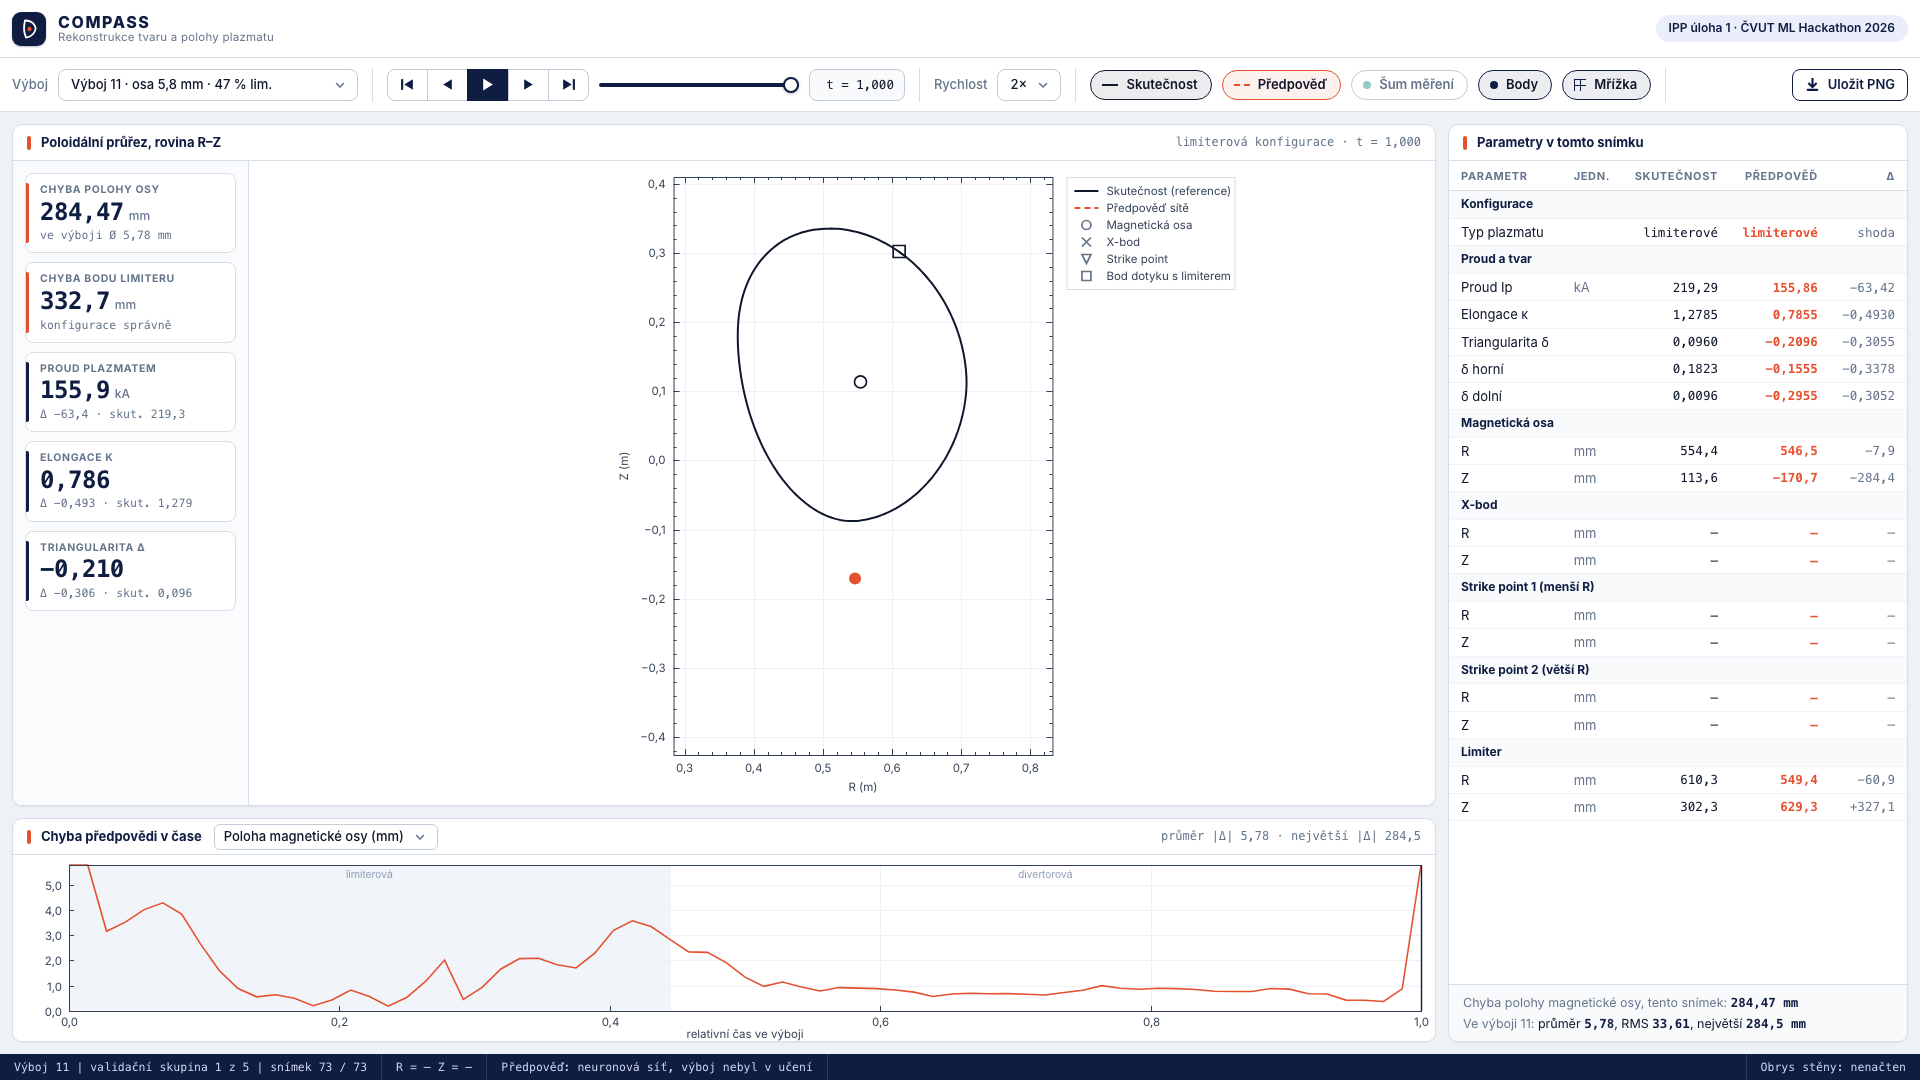
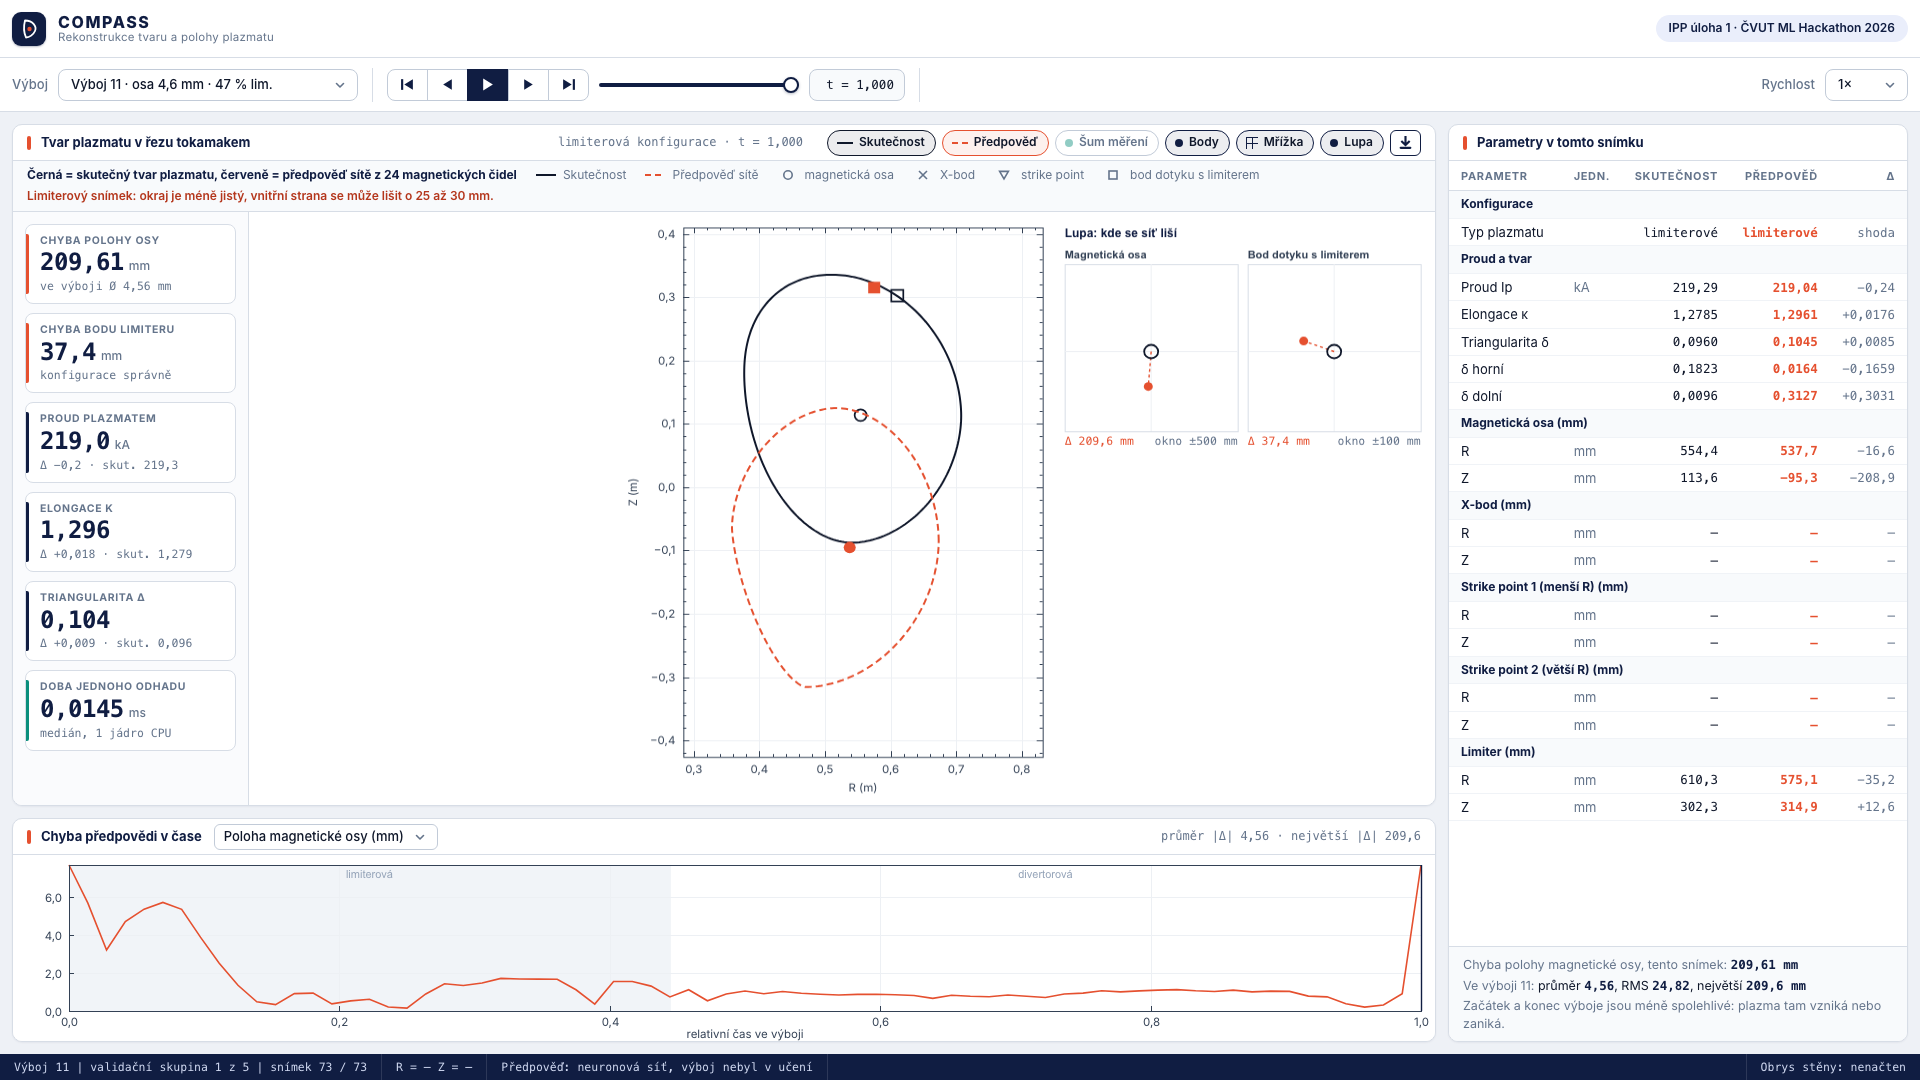
feat: add Firefox slider rules and a limited-frame note, re-record the final stills

diff --git a/viewer/index.html b/viewer/index.html
@@ -43,6 +43,9 @@ button svg { width: 15px; height: 15px; fill: var(--ink); }
 input[type=range] { --p: 0%; -webkit-appearance: none; appearance: none; width: 200px; height: 22px; background: transparent; margin: 0; cursor: pointer; }
 input[type=range]::-webkit-slider-runnable-track { height: 4px; border-radius: 2px; background: linear-gradient(to right, var(--ink) var(--p), #d5dce7 var(--p)); }
 input[type=range]::-webkit-slider-thumb { -webkit-appearance: none; width: 16px; height: 16px; margin-top: -6px; border-radius: 50%; background: #fff; border: 2px solid var(--ink); box-shadow: 0 1px 3px rgba(16, 29, 66, 0.3); }
+input[type=range]::-moz-range-track { height: 4px; border-radius: 2px; background: #d5dce7; }
+input[type=range]::-moz-range-progress { height: 4px; border-radius: 2px; background: var(--ink); }
+input[type=range]::-moz-range-thumb { width: 12px; height: 12px; border-radius: 50%; background: #fff; border: 2px solid var(--ink); box-shadow: 0 1px 3px rgba(16, 29, 66, 0.3); }
 input[type=range]:focus-visible { outline: 2px solid var(--ring); outline-offset: 3px; border-radius: 4px; }
 .chip { position: relative; display: inline-flex; align-items: center; gap: 8px; height: 30px; padding: 0 13px 0 11px; border: 1px solid var(--border2); border-radius: 999px; background: #fff; color: var(--muted); cursor: pointer; font-weight: 550; transition: all 0.12s; }
 .chip input { position: absolute; opacity: 0; pointer-events: none; }
@@ -64,6 +67,7 @@ main { display: grid; grid-template-columns: minmax(0, 1fr) 460px; gap: 12px; pa
 .ph { min-width: 0; overflow: hidden; }
 .stagepanel { grid-template-rows: 36px auto minmax(0, 1fr); }
 .legendbar { display: flex; flex-wrap: wrap; align-items: center; gap: 4px 18px; padding: 6px 14px; border-bottom: 1px solid var(--border); background: var(--head); font-size: 12px; color: var(--muted); }
+.legendbar .warn { color: #b4361c; font-weight: 600; }
 .legendbar b { color: var(--ink); font-weight: 650; } .legendbar .it { display: inline-flex; align-items: center; gap: 6px; } .legendbar svg { width: 22px; height: 12px; overflow: visible; }
 .ph .chips { display: flex; gap: 6px; align-items: center; margin-left: 12px; }
 .ph .chip { height: 26px; padding: 0 10px 0 9px; font-size: 12px; gap: 6px; }
@@ -284,7 +288,8 @@ function drawLegendBar() {
     : `<svg viewBox="0 0 22 12"><g transform="translate(11 6)" stroke="#64748b" stroke-width="1.6" fill="none">${{ circle: '<circle r="4.2"/>', x: '<path d="M-4-4L4 4M4-4L-4 4"/>', tri: '<path d="M-4.4-3.6H4.4L0 4Z"/>', square: '<rect x="-4" y="-4" width="8" height="8"/>' }[k]}</g></svg>`;
   const items = [["line", "Skutečnost", COL.true], ...sets().map(([, col, label]) => ["dash", label, col]), ["circle", "magnetická osa"], ["x", "X-bod"], ["tri", "strike point"], ["square", "bod dotyku s limiterem"]];
   $("#legendbar").innerHTML = `<span><b>${state.noise ? "Černá = skutečný tvar, barevně = dvě sítě na zašuměných měřeních" : "Černá = skutečný tvar plazmatu, červeně = předpověď sítě z 24 magnetických čidel"}</b></span>` +
-    items.map(([k, label, col]) => `<span class="it">${glyph(k, col)}${label}</span>`).join("");
+    items.map(([k, label, col]) => `<span class="it">${glyph(k, col)}${label}</span>`).join("") +
+    (isLimited(cur().c, state.i, "") ? `<span class="it warn">Limiterový snímek: okraj je méně jistý, vnitřní strana se může lišit o 25 až 30 mm.</span>` : "");
 }
 // Magnifier tiles: the true point in the centre, the predicted points around it, the window sized to the error.
 function drawLenses(ctx) {

diff --git a/docs/PLAN.md b/docs/PLAN.md
@@ -26,7 +26,7 @@ criteria are met **and verified** (`AGENTS.md` §15).
 | IMPL-7 | Camera model. Camera lane is the cloud session; GPT lane R only ran a local cross check | IN PROGRESS | REQ-B01, REQ-B03, REQ-B05 | Local run, 2 of 5 folds, `analysis/ipp1_camera_model.py --epochs 8 --folds 5 --run-folds 2`: camera R axis 1.54 mm (colour) and 1.53 mm (black and white) against 0.24 mm for magnetics on the same frames; fusion 1.21 mm, no gain over magnetics; plain model fragile to a 4 to 8 px shift (about 3x error), augmentation fixes it (2.0 mm); shift curve non monotonic, padding suspected. Notebook outputs still open |
 | IMPL-8 | Notebooks that run top to bottom, README and results table | IN PROGRESS | REQ-005 | `notebooks/01` to `05` written; clean run on a second machine not yet done. Main delivery risk before the Sat 02:30 checkpoint |
 | IMPL-9 | Presentation, video, motion reel | IN PROGRESS | REQ-006 | `presentation/` (outline, pitch script, deck v1); wording fixes for the slides, the outline and the pitch in `docs/claims-corrections.md`; video and reel not delivered |
-| IMPL-10 | Plasma shape viewer (offline page, true against predicted). Lane U | IN PROGRESS | Opens by double click, shows wall, boundary, key points, slider, errors | Browser screenshot checked; v0 checked in headless Chrome at 1920x1080 and 1280x720 (slider, 149 discharges, table, error chart). Open: wall outline (needs the owner's OK to download `COMPASS_stena.csv`), predicted boundary (needs `R_top`, `Z_top`, `R_bottom`, `Z_bottom`, `R_outer`, `Z_outer`, `R_inner`, `Z_inner`, `squareness_*` among the predicted targets); Fri 18:00: noise mode (`analysis/ipp1_oof_noise.py`, switch "Šum měření"; mean axis error 11.6 mm plain against 4.0 mm hardened, hardened better in 99.3 % of the 149 discharges), portable build `viewer/build.py` to `viewer/dist/index.html` (9.5 MB, tested from another folder, gitignored), stills `presentation/assets/viewer-*.png` and 15 s clip `out/viewer-demo.mp4` (1920x1080, 30 fps, outside git) made by `viewer/record.py`; Fri 18:30, QA fixes: predicted outline drawn (export reads `out/ipp1-predictions-full.csv`), toolbar no longer clipped (layer chips and PNG button moved to the stage header, checked at 1920, 1366 and 1280), legend moved to a bar above the plot, opens on a typical divertor frame, magnifier tiles with error windows (axis, X-point, strike points or limiter), latency tile 0.0145 ms, time-normalised playback (about 10 s at 1x), empty table groups hidden. Still open: the wall outline (needs the owner's OK to download `COMPASS_stena.csv`) |
+| IMPL-10 | Plasma shape viewer (offline page, true against predicted). Lane U | IN PROGRESS | Opens by double click, shows wall, boundary, key points, slider, errors | Browser screenshot checked; v0 checked in headless Chrome at 1920x1080 and 1280x720 (slider, 149 discharges, table, error chart). Open: wall outline (needs the owner's OK to download `COMPASS_stena.csv`), predicted boundary (needs `R_top`, `Z_top`, `R_bottom`, `Z_bottom`, `R_outer`, `Z_outer`, `R_inner`, `Z_inner`, `squareness_*` among the predicted targets); Fri 18:00: noise mode (`analysis/ipp1_oof_noise.py`, switch "Šum měření"; mean axis error 11.6 mm plain against 4.0 mm hardened, hardened better in 99.3 % of the 149 discharges), portable build `viewer/build.py` to `viewer/dist/index.html` (9.5 MB, tested from another folder, gitignored), stills `presentation/assets/viewer-*.png` and 15 s clip `out/viewer-demo.mp4` (1920x1080, 30 fps, outside git) made by `viewer/record.py`; Fri 18:30, QA fixes: predicted outline drawn (export reads `out/ipp1-predictions-full.csv`), toolbar no longer clipped (layer chips and PNG button moved to the stage header, checked at 1920, 1366 and 1280), legend moved to a bar above the plot, opens on a typical divertor frame, magnifier tiles with error windows (axis, X-point, strike points or limiter), latency tile 0.0145 ms, time-normalised playback (about 10 s at 1x), empty table groups hidden. Still open: the wall outline (needs the owner's OK to download `COMPASS_stena.csv`); Fri 19:00: Firefox slider rules (RP-14), a red note on limited frames (outline less certain, up to 25 to 30 mm on the inner side), predicted outline from `ipp1-predictions-full.csv`, portable file rebuilt (11.3 MB) and opened from another folder with DNS blocked (`--host-resolver-rules`), no external URL or network API in it, final stills and 15 s clip re-recorded. **Not DONE: the wall outline is still missing** because the owner has not approved the download of `COMPASS_stena.csv` in chat (a peer message cannot replace that); with it the acceptance criterion "shows wall" is met |
 | IMPL-11 | Reproducibility check on a second machine; presentation outline in Czech. Lane K | IN PROGRESS | README commands work; `presentation/outline.md` exists with numbers only from `results/` | Run log; the file. Split of the extra items: deck (`presentation/deck/slides.pptx`) K-Repro-Opus; rehearsal notes and glossary (`presentation/slovnicek.md`) K-Sonnet; deck v1 b9a29d9, waits for pitch-script.md and presentation/assets/ |
 | IMPL-12 | Error against the uneven data distribution (REQ-007) and a drop-column input ranking (REQ-004). Terminal agent bladed-55, lane R items 1 and 4 | IN PROGRESS | A REQ-007 table by configuration, current polarity, target value quantile and position in the discharge; a backward-elimination ranking computed on training discharges only | `results/ipp1-distribution.md` (`HACKATHON_HOME=/Users/bladed/Documents/AIprogramy/hackathon ~/.venvs/hackathon/bin/python -I analysis/ipp1_distribution.py`): pooled over the 42,972 out-of-fold rows. The limited rows are 44.2 % of the rows and carry 91.9 % of the squared R-axis error (MAE 0.553 against 0.237 mm diverted); the 16 positive-current discharges are 7.4 % of the rows and carry 77.8 % (MAE 1.73 against 0.269 mm); the last 2 % of a discharge is 2.2 % of the rows and 26.9 % (MAE 1.70 mm against 0.321 mm in the middle); `R_limiter` in the first 2 % is 52.6 mm against 8.28 mm in the middle, 40.5 % of its squared error on 4.9 % of its rows. The script asserts its own metrics equal `ipp1_common.score_extended` on the full row set. Ranking (REQ-004): pending |
 
